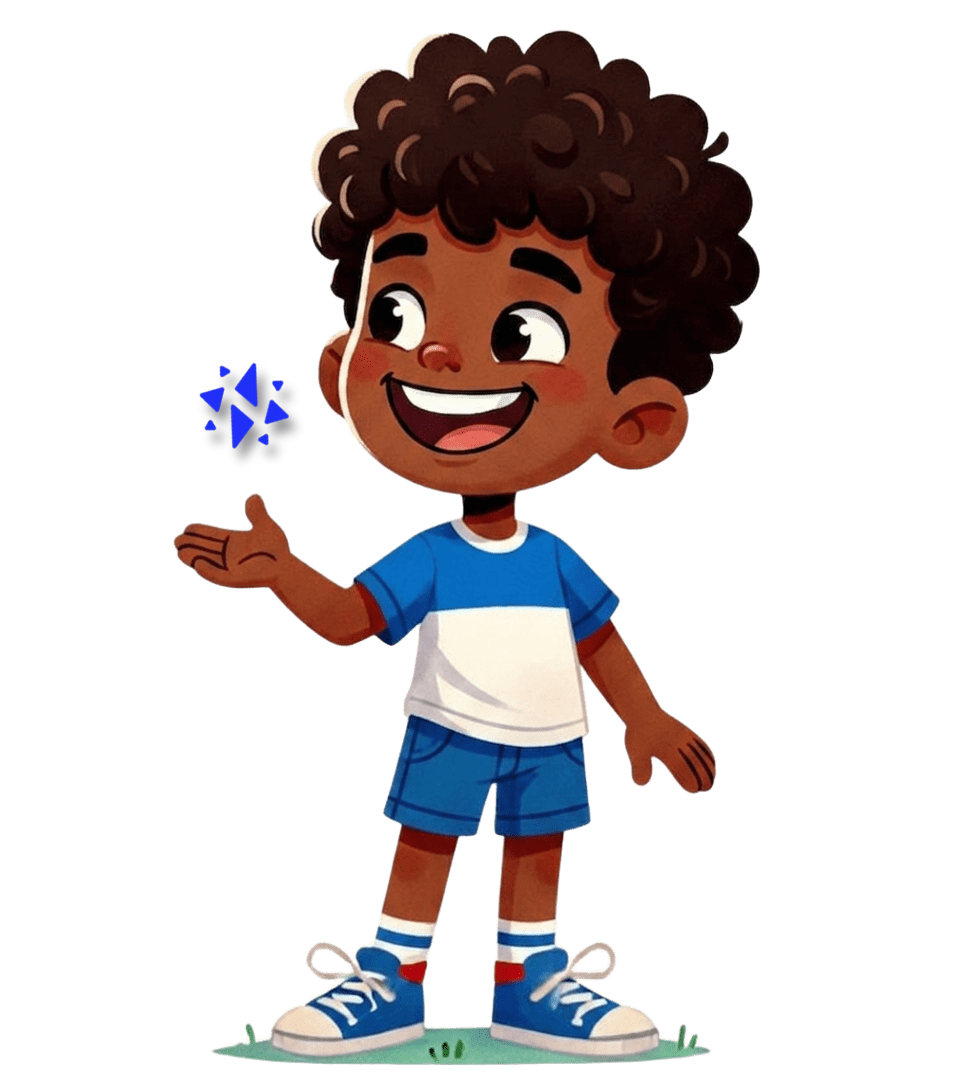
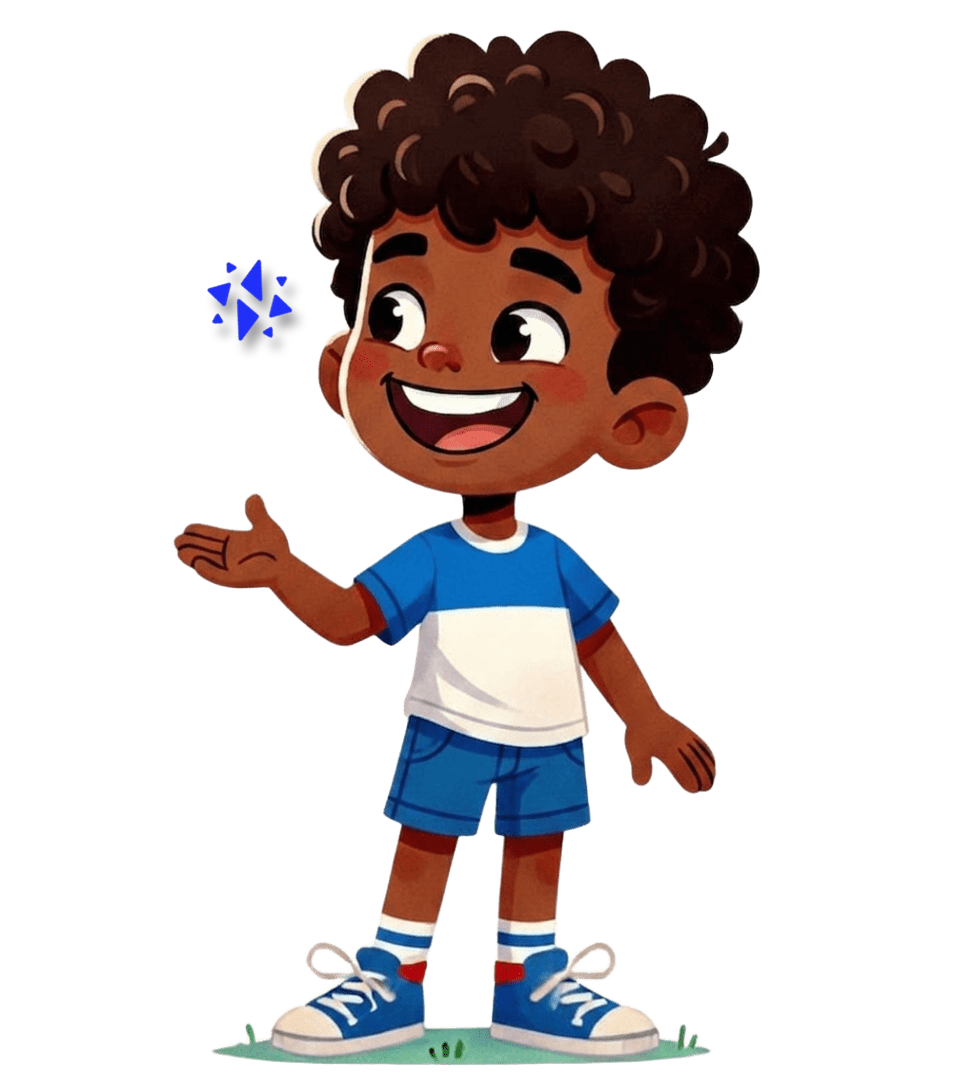
Raise hero symbol to eye level, flatten journey cards to solid colors
The symbol at chest height needed a steep downward gaze that didn't
read as her looking at it. Eye level only requires a horizontal glance
left, matching the head's own turn toward that side.

Journey cards drop their two-tone gradients for single flat brand
colors (teal, navy, navy-deep, teal-deep) - four solid tones straight
from the palette, no blends.

Changed region(s): [[0.1844, 0.2433, 0.3074, 0.4258]]

diff --git a/components/care-journey.tsx b/components/care-journey.tsx
@@ -20,27 +20,27 @@ const steps: {
     description:
       "Você fala com a Neuro+ pelo WhatsApp ou e-mail e conta um pouco sobre a criança.",
     icon: ChatCircleDots,
-    background: "linear-gradient(135deg, #0f7a6a, #0b5e52)",
+    background: "bg-brand-teal",
   },
   {
     title: "Avaliação",
     description: "Nossa equipe conhece a criança e entende suas necessidades.",
     icon: MagnifyingGlass,
-    background: "linear-gradient(135deg, #141c87, #0d1461)",
+    background: "bg-brand-navy",
   },
   {
     title: "Direcionamento",
     description:
       "Indicamos as especialidades e o caminho mais adequado para o momento da criança.",
     icon: Compass,
-    background: "linear-gradient(135deg, #2b5ce6, #141c87)",
+    background: "bg-brand-navy-deep",
   },
   {
     title: "Acompanhamento",
     description:
       "A criança segue em acompanhamento contínuo, com o plano revisado conforme evolui.",
     icon: ArrowsClockwise,
-    background: "linear-gradient(135deg, #0b5e52, #0d1461)",
+    background: "bg-brand-teal-deep",
   },
 ];
 
@@ -64,8 +64,8 @@ export function CareJourney() {
             return (
               <article
                 key={step.title}
-                className="journey-stack__card mb-10 flex min-h-[220px] flex-col justify-between gap-6 p-7 text-white shadow-[0_30px_60px_-34px_rgba(16,21,46,0.55)] sm:p-9"
-                style={{ "--i": index, background: step.background } as CSSProperties}
+                className={`journey-stack__card mb-10 flex min-h-[220px] flex-col justify-between gap-6 p-7 text-white shadow-[0_30px_60px_-34px_rgba(16,21,46,0.55)] sm:p-9 ${step.background}`}
+                style={{ "--i": index } as CSSProperties}
               >
                 <div className="flex items-center justify-between">
                   <span className="text-xs font-bold tracking-[0.2em] text-white/70">
